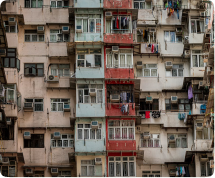
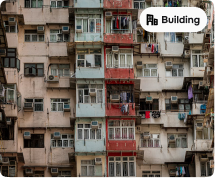
Location section Done

Changed region(s): [[0.6419, 0.0281, 0.9767, 0.1966]]

diff --git a/src/components/CommonCotains/Navber/Navbar.jsx b/src/components/CommonCotains/Navber/Navbar.jsx
@@ -1,24 +1,34 @@
-import React, { useState } from "react";
+import React, { useState, useEffect } from "react";
 import NavItems from "../../Json Data/Data.json";
-import { NavLink, Outlet } from "react-router-dom";
+import { NavLink, Outlet, useLocation } from "react-router-dom";
 import { NavDetails } from "./NavDetails";
 import { Bar } from "../../lib/Icon";
 import { MobileMenu } from "./MobileMenu";
 
-
 export const Navbar = () => {
   const [IsMobileMenu, setIsMobileMenu] = useState(false);
+  const location = useLocation(); 
   const [IsActive, setIsActive] = useState(0);
+
+  // Set IsActive based on the current path
+  useEffect(() => {
+    const currentPath = location.pathname;
+    const activeIndex = NavItems.navItems.findIndex(item => item.link === currentPath);
+    if (activeIndex !== -1) {
+      setIsActive(activeIndex);
+    }
+  }, [location.pathname]);
 
   const ToggleMenu = () => {
     setIsMobileMenu(!IsMobileMenu);
   };
 
   const activeInfo = NavItems.navItems[IsActive]?.navInfo;
+
   return (
     <section>
       <div className="bg-Light-Gray flex flex-col pt-2">
-        <nav className="xl:px-[85px] px-[20px] lg:px-[40px] flex justify-between items-center  ">
+        <nav className="xl:px-[85px] px-[20px] lg:px-[40px] flex justify-between items-center">
           <img src="/logo.png" alt="logo" />
 
           <ul className="lg:flex hidden items-center leading-[17px] lg:gap-[23px] xl:gap-[35px] text-Gray">
@@ -36,13 +46,13 @@ export const Navbar = () => {
 
           <div className="flex gap-[5px] xl:gap-[9px] items-center">
             <Bar
-              className="size-[25px]  lg:hidden block"
+              className="size-[25px] lg:hidden block"
               onClick={ToggleMenu}
             />
 
             <img src="/notification.png" alt="notification" />
 
-            <div className="sm:flex items-center justify-center gap-[9px]  hidden">
+            <div className="sm:flex items-center justify-center gap-[9px] hidden">
               <img src="manicon.png" alt="" />
 
               <div className="flex flex-col items-start font-onest text-Gray">
@@ -60,7 +70,7 @@ export const Navbar = () => {
             {Array.from(Array(6).keys()).map((el) => (
               <div
                 key={el}
-                className={`w-[80px]  h-[3px] rounded-[25%] ${IsActive === el && 'bg-[#09090b]'}`}
+                className={`w-[80px] h-[3px] rounded-[25%] ${IsActive === el && 'bg-[#09090b]'}`}
               ></div>
             ))}
           </div>

diff --git a/src/components/Contains/Location/Location.jsx b/src/components/Contains/Location/Location.jsx
@@ -1,0 +1,65 @@
+import React from 'react'
+import { Contains } from '../Contains'
+import { LocationApprox } from './LocationApprox'
+import { Line } from '../../common/Line'
+import { Area } from './Area'
+import { Activities } from './Activities'
+import { Document } from './Document'
+
+export const Location = () => {
+  return (
+    <section className='mt-10'>
+
+        <Contains className='px-[70px] max-w-[1300px] mx-auto flex flex-col-reverse xl:items-start items-center xl:flex-row gap-[94px]'>
+
+            {/* first part start  */}
+
+            <div className='md:w-[680px] w-[300px] sm:w-[500px]'>
+
+              <LocationApprox/>
+
+               <Line/>
+
+               {/* description */}
+               <div className='font-onest pt-10'>
+                 <h3 className='font-bold text-[14px] text-black '>Description</h3>
+                 <p className='text-Gray sm:text-base text-sm pt-[15px]'>Lorem ipsum dolar sit general sac mascho werhoLorem ipsum dolar sit general sac mascho werhoLorem ipsum dolar sit general sac mascho werhoLorem ipsum dolar sit general sac mascho werhoLorem ipsum dolar sit general sac mascho werhoLorem ipsum dolar sit general sac mascho werho</p>
+               </div>
+
+               <Line/>
+
+               {/* area */}
+               <Area/>
+
+               <Line/>
+
+              {/* Activity */}
+               <Activities/>
+
+               <Line/>
+
+              {/* Document  */}
+              <Document/>
+
+               <Line/>
+            
+
+            </div>
+
+            {/* first part end */}
+
+            {/* second part  */}
+            <div className='space-y-5 font-onest '>
+                <p className='text-[14px] text-Gray'>Incident Map</p>
+                <img src="/map.png" alt="map"  className='w-auto h-auto object-cover'/>
+                <p className='sm:text-sm text-[11px] text-Gray'>Start 19.1232, -118.233     End 19.3245, -119.2323</p>
+            </div>
+
+
+        </Contains>
+
+        
+
+    </section>
+  )
+}

diff --git a/src/components/CommonCotains/Disasters.jsx b/src/components/CommonCotains/Disasters.jsx
@@ -1,22 +1,23 @@
 import React from "react";
 
-export const Disasters = ({image,place,area,loss}) => {
+export const Disasters = ({image,place,area,loss,width , height,size,sizeP}) => {
   return (
-      <div className="w-[306px]  rounded-lg">
+      <div className="rounded-lg">
           <img
             src={image}
             alt={place}
-            className=" rounded-[10px] w-[306px]  h-auto md:h-[253px] object-cover" // Adjust height as needed
+            style={{width,height}}
+            className=" rounded-[10px]  h-auto md:h-[253px] object-cover" 
           />
 
-          <div className="space-y-[8px]">
-            <h1 className="font-onest font-bold text-[16px] text-Rich Black pt-[10px]">
+          <div className="space-y-[8px] font-onest">
+            <h1 className=" font-bold  text-Rich Black pt-[10px]" style={{ fontSize :size}}>
              {place}
             </h1>
-            <p className="text-Gray font-onest font-semibold text-[14px]">
+            <p className="text-Gray  font-semibold " style={{fontSize :sizeP}}>
             {area}
             </p>
-            <p className="text-Rich Black font-onest font-bold text-[16px]">
+            <p className="text-Rich Black font-bold" style={{fontSize:size}}>
              {loss}
             </p>
           </div>

diff --git a/src/components/CommonCotains/Navber/NavDetails.jsx b/src/components/CommonCotains/Navber/NavDetails.jsx
@@ -1,18 +1,19 @@
-import React from 'react';
+import React, { act } from 'react';
 import { Input } from '../../common/Input';
 import { FirstButton } from '../../common/FirstButton';
 import { SecondButton } from '../../common/SecondButton';
 
-export const NavDetails = ({ activeInfo }) => {
+export const NavDetails = ({ activeInfo ,isLocationSection}) => {
   return (
     <section className='lg:px-[60px] px-[20px] xl:px-[86px] mt-[32px] pb-[23px] flex flex-col md:flex-row justify-between items-center'>
-      <div className='sm:flex-col flex-row flex items-center sm:items-start sm:gap-0 gap-2'>
+      <div className='flex-col  flex items-center sm:items-start sm:gap-0 gap-2'>
         {activeInfo && (
           <>
             <p className='font-onest font-semibold text-[14px] md:text-[12px] text-Gray'>
               {activeInfo.navDes}
             </p>
-            <h1 className='font-onest font-semibold text-[26px] text-Rich-Black'>
+            <h1 className='font-onest flex items-center justify-center gap-[3.5px] font-semibold text-[26px] text-Rich-Black'>
+              {activeInfo.navImg && <img src={activeInfo.navImg} alt="navImg" className='pr-[3.5px]' /> }
               {activeInfo.navName}
             </h1>
           </>

diff --git a/src/components/CommonCotains/ADN.jsx b/src/components/CommonCotains/ADN.jsx
@@ -1,15 +1,15 @@
 import React from 'react'
 
-export const ADN = () => {
+export const ADN = ({image,name,locationName,loss}) => {
   return (
-    <div className='lg:w-[679px] m-2 rounded-[10px] w-[80%] bg-[#F4F4F5] px-[10px] py-[15px] flex items-center justify-normal gap-[17px] '>
+    <div className='lg:w-[679px]  rounded-[10px] h-[108px] w-[98%] bg-[#F4F4F5] px-[10px]  flex items-center justify-normal gap-[17px] '>
 
-        <img src="/ADN.png" alt="ADN" />
+        <img src={image} alt={name} />
 
         <div className='font-onest '>
-            <h2 className='font-bold text-Rich-Black text-[16px] '>Activity name</h2>
-            <p className='text-[14px] text-Gray pt-[10px] '>Location name 16.12212, -122.1424</p>
-            <p className='font-bold text-Rich-Black pt-[10px] '>$1,456,654.00</p>
+            <h2 className='font-bold text-Rich-Black text-sm sm:text-base '>{name}</h2>
+            <p className='sm:text-[14px] text-[11px] text-Gray pt-3 '>{locationName}</p>
+            <p className='font-bold text-Rich-Black pt-3 '>{loss}</p>
         </div>
     </div>
   )

diff --git a/src/components/Contains/Location/Area.jsx b/src/components/Contains/Location/Area.jsx
@@ -1,0 +1,31 @@
+import React from "react";
+import { Disasters } from "../../CommonCotains/Disasters";
+import LocationInfo from "../../Json Data/Data.json";
+import { LocationHeader } from "../../common/LocationHeader";
+
+export const Area = () => {
+  return (
+    <div className="pt-10">
+      
+      <LocationHeader title='Locations' more='see all' color='#A1A1AA'/>
+
+      <div className="sm:pt-[15px] pt-5 w-full">
+        <div className="flex md:justify-normal justify-center gap-[17.5px] flex-wrap">
+        {LocationInfo.location.map(({ image, place, area, loss }, index) => (
+          <Disasters
+            image={image}
+            height="177px" // set height for image
+            width="214px" // set width for image 
+            sizeP="12px" // set size for first p
+            size="14px" // set size for h1 and 2nd p 
+            place={place}
+            area={area}
+            loss={loss}
+            key={index}
+          />
+        ))}
+        </div>
+      </div>
+    </div>
+  );
+};

diff --git a/src/components/Contains/Location/LocationApprox.jsx b/src/components/Contains/Location/LocationApprox.jsx
@@ -1,0 +1,28 @@
+import React from 'react'
+
+export const LocationApprox = () => {
+  return (
+    <div>
+
+        <div className='flex items-center gap-[15px] '>
+            <img src="/location.png" alt="Location" />
+
+            <div className='font-onest'>
+                <p className='text-Slate-Gray text-[12px] sm:text-[14px]'>Location</p>
+                <h2 className='font-bold text-[14px] sm:text-xl text-Rich-Black pt-[8px]'>Tulare County,  Los Angles, CA 23415</h2>
+            </div>
+        </div>
+
+        
+        <div className='flex items-center gap-[15px] pt-[30px] '>
+            <img src="/approx.png" alt="Location" />
+
+            <div className='font-onest'>
+                <p className='text-Slate-Gray text-[12px] sm:text-[14px]'>Approx. Cost:</p>
+                <h2 className='font-bold text-[14px] sm:text-xl text-Rich-Black pt-[8px]'>$60,607,456.00</h2>
+            </div>
+        </div>
+
+    </div>
+  )
+}

diff --git a/src/components/Contains/Location/Activities.jsx b/src/components/Contains/Location/Activities.jsx
@@ -1,0 +1,30 @@
+import React from "react";
+import { LocationHeader } from "../../common/LocationHeader";
+import ActivitiesInfo from "../../Json Data/Data.json";
+import { ADN } from "../../CommonCotains/ADN";
+
+export const Activities = () => {
+  return (
+    <div className="pt-10">
+      <LocationHeader title="Activities" more="see all" color="#0A0A0A" />
+
+      <div className="pt-[15px]">
+        {ActivitiesInfo.Activities.map(
+          ({ image, name, locationName, loss }, index) => (
+            <div key={index} className="space-y-[15px]">
+              {Array.from(Array(2).keys()).map((el) => (
+                <ADN
+                  image={image}
+                  name={name}
+                  locationName={locationName}
+                  loss={loss}
+                 key={el}
+                />
+              ))}
+            </div>
+          )
+        )}
+      </div>
+    </div>
+  );
+};

diff --git a/src/components/Contains/Location/Document.jsx b/src/components/Contains/Location/Document.jsx
@@ -1,0 +1,30 @@
+import React from 'react'
+import { LocationHeader } from '../../common/LocationHeader'
+import DocumentInfo from '../../Json Data/Data.json'
+import { ADN } from '../../CommonCotains/ADN'
+
+export const Document = () => {
+  return (
+    <div className='pt-[15px]'>
+        <LocationHeader title="Documents" more="see all" color="#0A0A0A" />
+
+        <div className='pt-[15px]'>
+        {DocumentInfo.Documents.map(
+          ({ image, name, locationName, loss }, index) => (
+            <div key={index} className="space-y-[15px]">
+              {Array.from(Array(2).keys()).map((el) => (
+                <ADN
+                  image={image}
+                  name={name}
+                  locationName={locationName}
+                  loss={loss}
+                 key={el}
+                />
+              ))}
+            </div>
+          )
+        )}
+        </div>
+    </div>
+  )
+}

diff --git a/src/components/Contains/Dashboard.jsx b/src/components/Contains/Dashboard.jsx
@@ -17,7 +17,7 @@ export const Dashboard = () => {
 
   return (
     <section className="mt-10">
-      <Contains className="flex relative px-[50px] md:px-[70px] max-w-[1517px] flex-wrap gap-[25px] justify-center xl:justify-start">
+    <Contains className="flex relative px-[50px] md:px-[70px] max-w-[1517px] flex-wrap    gap-[25px] justify-center xl:justify-start">
         {DisastersInfo.disasters.map(({ image, place, area, loss }, index) => (
           <Disasters
             key={index}
@@ -25,6 +25,8 @@ export const Dashboard = () => {
             place={place}
             area={area}
             loss={loss}
+            width='306px'
+            height='253px'
           />
         ))}
       </Contains>

diff --git a/src/App.jsx b/src/App.jsx
@@ -3,8 +3,7 @@ import './index.css'
 import { Navbar } from './components/CommonCotains/Navber/Navbar'
 import { Dashboard } from './components/Contains/Dashboard'
 import { Incidents } from './components/Contains/Incidents'
-
-
+import { Location } from './components/Contains/Location/Location'
 
 
 function App() {
@@ -15,13 +14,15 @@ function App() {
           <Route path='' element={<Navbar/>}>
           <Route path='/' element={<Dashboard/>} />
           <Route path='/incidents' element={<Incidents/>} />
-        
+          <Route path='/location' element={<Location/>}/>
 
           </Route>
 
        </Routes>
     </BrowserRouter>
 
+   
+   
  
   
   

diff --git a/src/components/Contains/Incidents.jsx b/src/components/Contains/Incidents.jsx
@@ -6,7 +6,7 @@ import { Disasters } from '../CommonCotains/Disasters'
 export const Incidents = () => {
   return (
     <section className="mt-10">
-       <Contains className="flex relative px-[50px] md:px-[70px] max-w-[1517px] flex-wrap gap-[25px] justify-items-center">
+       <Contains className="flex relative px-[50px] md:px-[70px] max-w-[1517px] flex-wrap gap-[25px] justify-center xl:justify-normal">
         {DisastersInfo.disasters.map(({ image, place, area, loss }, index) => (
           <Disasters
             key={index}
